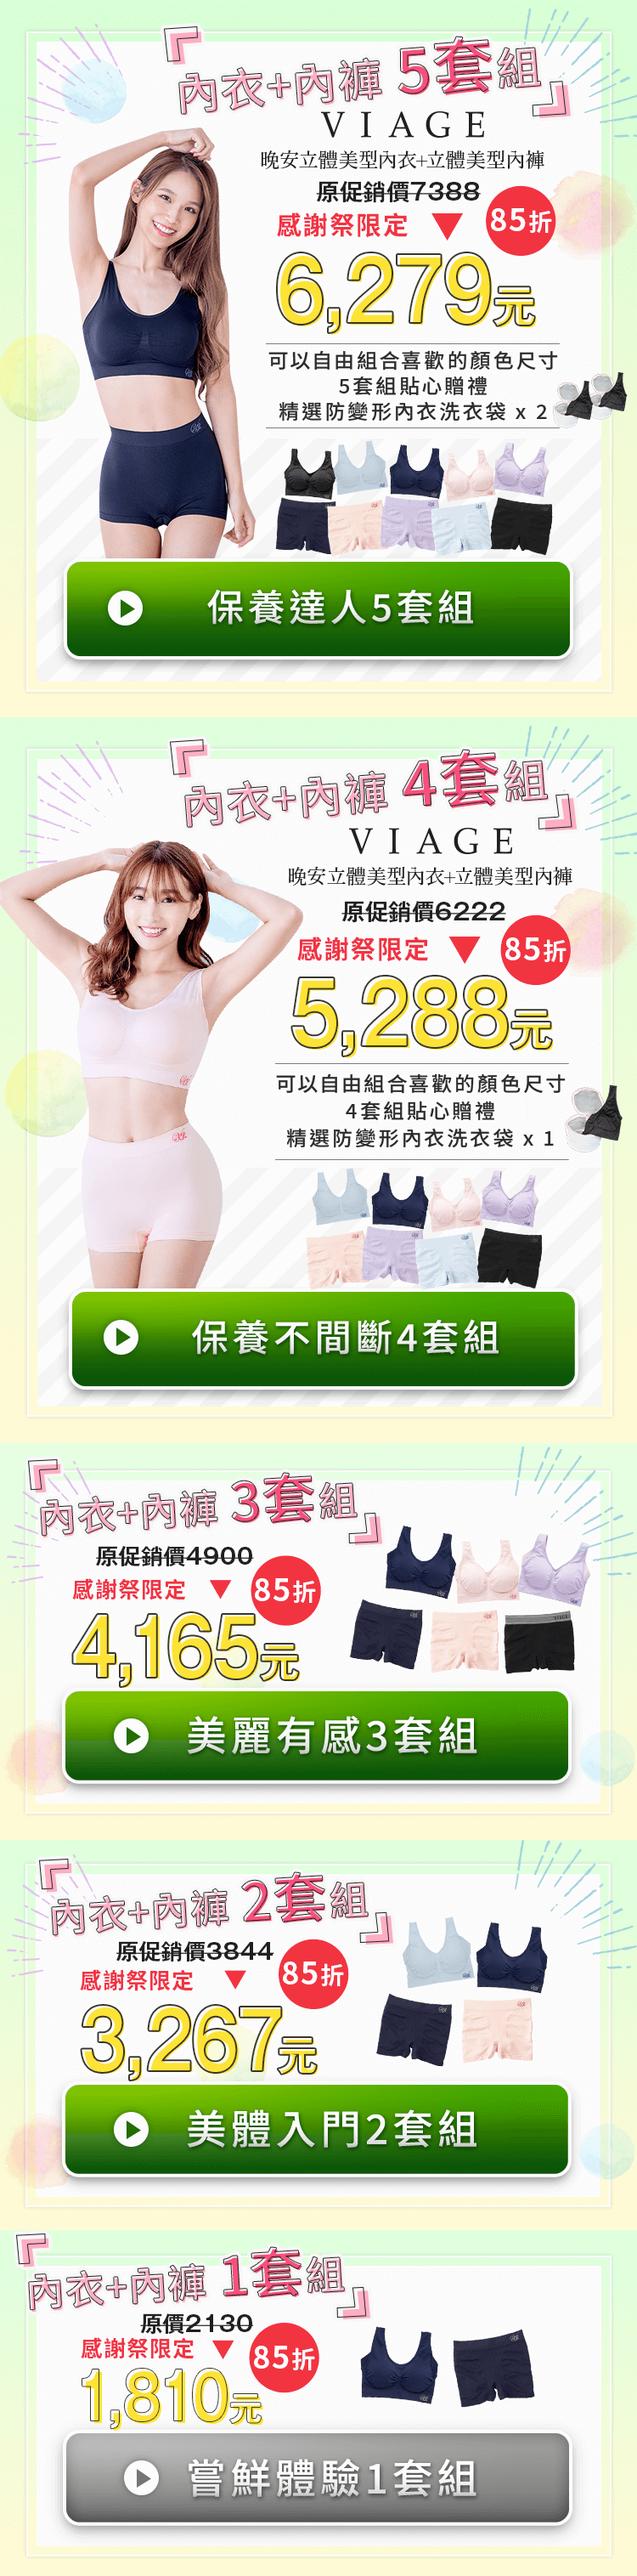
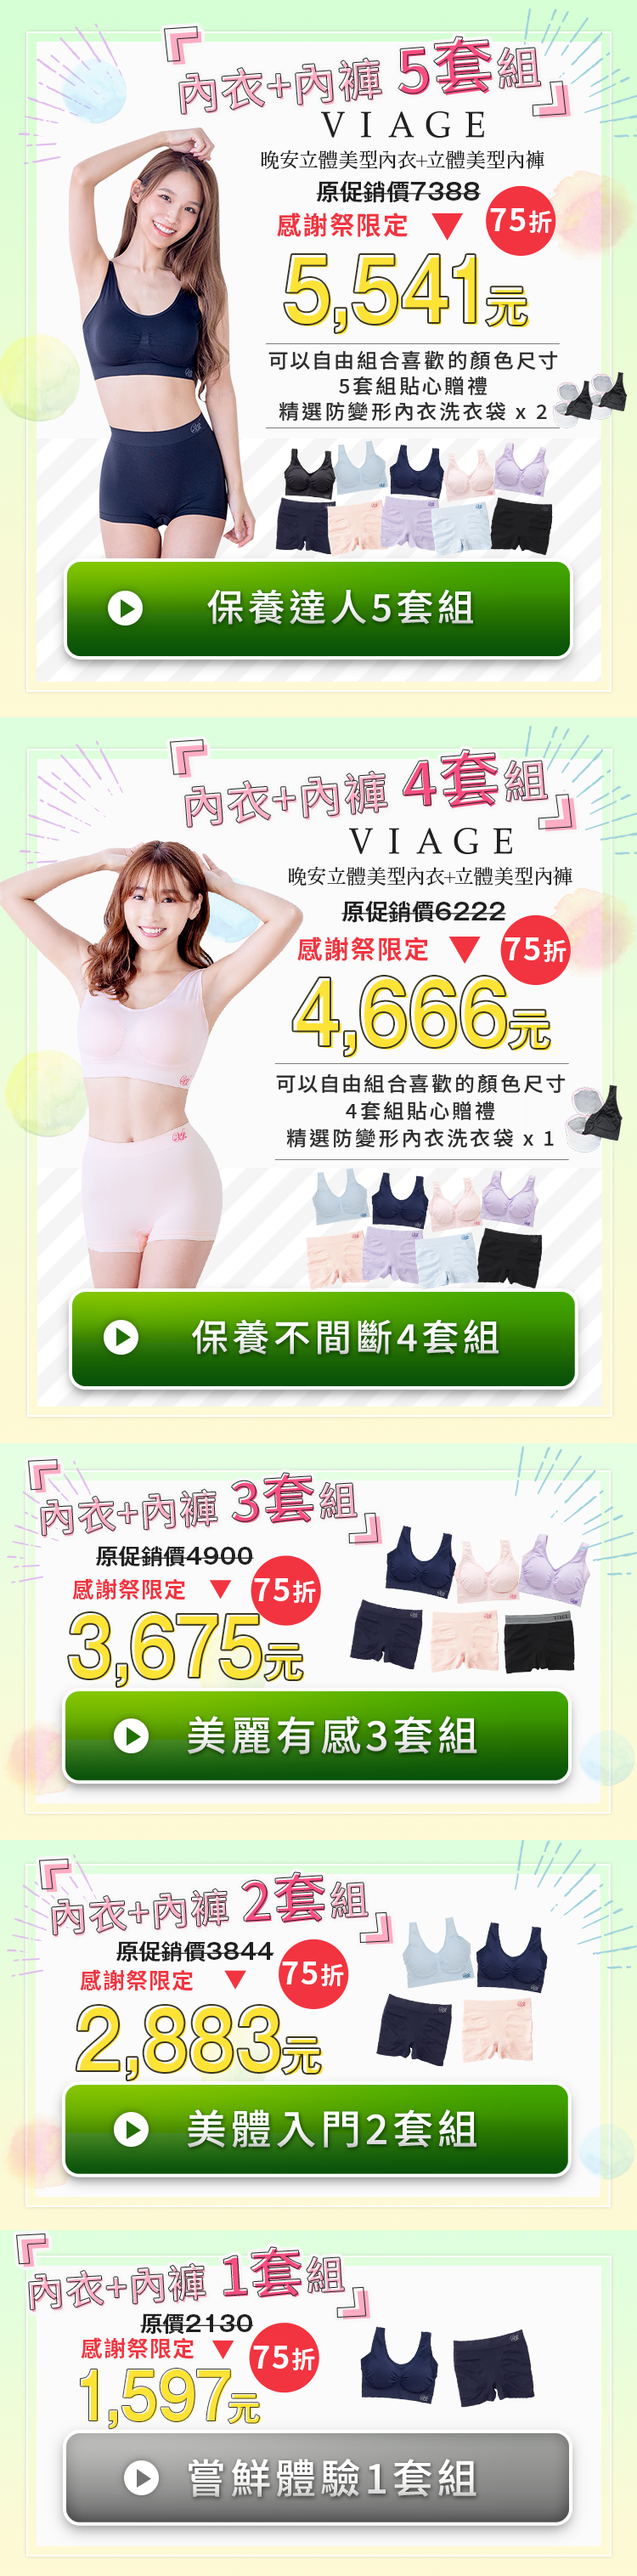
20210715_summer sale

diff --git a/index.html b/index.html
@@ -2,7 +2,7 @@
 <html>
 
 <head>
-    <title>Viage夏日感謝祭85折｜內衣+內褲老顧客獨享優惠！CP值超高美胸美臀一次到位👙</title>
+    <title>Viage夏日SALE 75折｜內衣+內褲老顧客獨享優惠！CP值超高美胸美臀一次到位👙</title>
     <meta http-equiv="Content-Type" content="text/html; charset=utf-8">
     <!-- 編集削除禁止※スマホ最適化※編集削除禁止 -->
     <meta name="viewport" content="width=device-width, initial-scale=1, maximum-scale=1, user-scalable=yes" />
